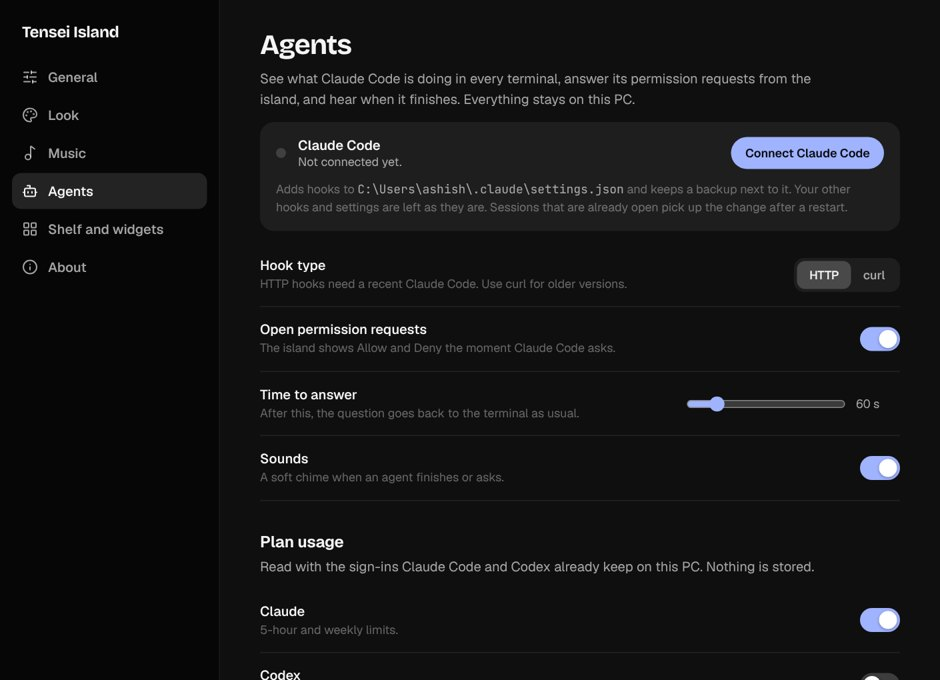
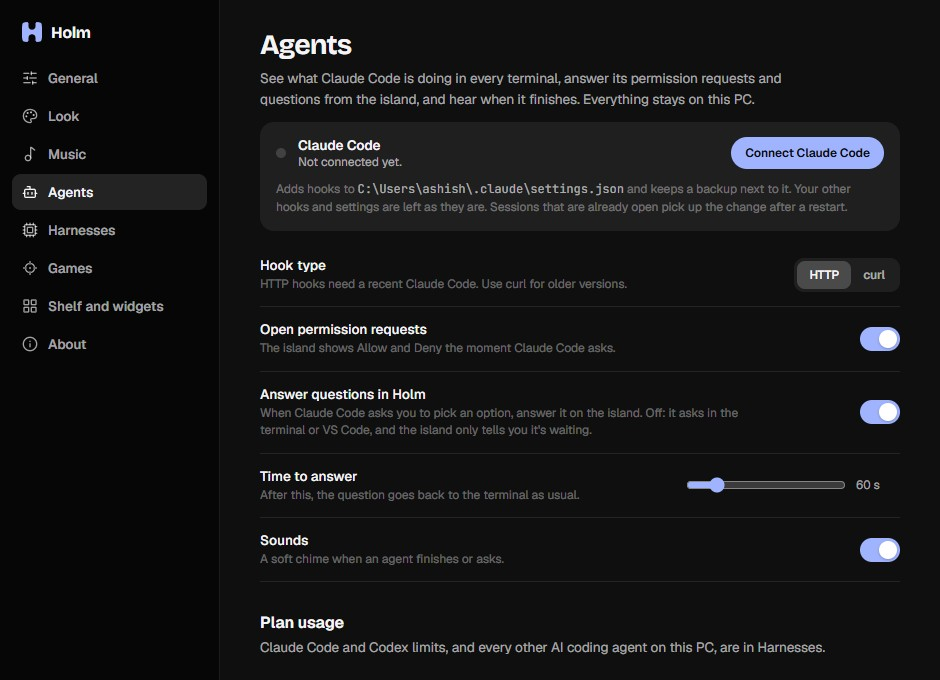
Question card: type your own answer, and a setting to answer in the terminal
Follow-up to #38.

- QuestionCard: a box under the options for an answer of your own. Enter or Send answers with
  it; on a multi-choice question it is added after the picks. Back brings it back. The island
  gives keyboard focus back once the question is answered.
- Settings > Agents > Answer questions in Holm (answerQuestions, on by default). Off, an
  AskUserQuestion permission request is answered empty at once, so Claude Code asks in its own
  prompt, and the island marks the session waiting with a "needs you" peek showing the question.
  Permission requests and plans are unchanged.
- agents.rs: leave_question_to_terminal and remind_question, with tests.
- Screenshots 23 to 25, settings-agents.jpg updated; README, CHANGELOG, ARCHITECTURE, STATUS.

diff --git a/src/lib/views/QuestionCard.svelte b/src/lib/views/QuestionCard.svelte
@@ -1,12 +1,14 @@
 <script lang="ts">
   // Claude Code asking a multiple-choice question (AskUserQuestion), answered from the island.
   // One question at a time; a single-choice pick moves on by itself, a multi-choice one waits
-  // for Next. "In terminal" hands it back to Claude Code's own prompt (where you can also type).
+  // for Next. An answer of your own can be typed below the options (on its own, or added to
+  // multi-choice picks). "In terminal" hands it back to Claude Code's own prompt.
   import { MessageCircleQuestionMark, Check } from '@lucide/svelte';
   import Ring from '../ui/Ring.svelte';
   import type { Approval } from '../types';
   import { agents } from '../stores/agents.svelte';
   import { clock } from '../stores/clock.svelte';
+  import { inTauri, focusWindow, send } from '../bridge';
 
   let { approval, more = 0, compact = false }: { approval: Approval; more?: number; compact?: boolean } = $props();
 
@@ -18,16 +20,30 @@
   let step = $state(0);
   let answers = $state<Record<string, string>>({});
   let picked = $state<string[]>([]);
+  /** An answer of the user's own for the question on screen. */
+  let typed = $state('');
 
   const count = $derived(approval.questions.length);
   const q = $derived(approval.questions[Math.min(step, count - 1)]);
   const last = $derived(step >= count - 1);
 
+  const own = $derived(typed.trim());
+  const ready = $derived(picked.length > 0 || own.length > 0);
+
+  /** Typing took keyboard focus from the app the user was in; give it back once answered. */
+  function releaseFocus() {
+    if (inTauri && document.hasFocus()) send('island_release_focus');
+  }
+
   function commit(labels: string[]) {
     const next = { ...answers, [q.question]: labels.join(', ') };
-    if (last) return agents.answer(approval.id, next);
+    if (last) {
+      releaseFocus();
+      return agents.answer(approval.id, next);
+    }
     answers = next;
     picked = [];
+    typed = '';
     step += 1;
   }
 
@@ -36,10 +52,23 @@
     picked = picked.includes(label) ? picked.filter((l) => l !== label) : [...picked, label];
   }
 
+  /** Next or Send: the picks, with the typed answer (if any) after them. */
+  function sendThis() {
+    if (ready) commit(own ? [...picked, own] : picked);
+  }
+
   function back() {
     step -= 1;
     const prev = approval.questions[step];
-    picked = prev.multiSelect ? (answers[prev.question]?.split(', ') ?? []) : [];
+    const parts = answers[prev.question]?.split(', ') ?? [];
+    const labels = prev.options.map((o) => o.label);
+    picked = prev.multiSelect ? parts.filter((p) => labels.includes(p)) : [];
+    typed = parts.filter((p) => !labels.includes(p)).join(', ');
+  }
+
+  function terminal() {
+    releaseFocus();
+    agents.answer(approval.id, null);
   }
 </script>
 
@@ -81,11 +110,24 @@
           </button>
         {/each}
       </div>
+      <input
+        class="own"
+        type="text"
+        bind:value={typed}
+        placeholder={q.multiSelect ? 'Add an answer of your own' : 'Or type your own answer'}
+        aria-label="Your own answer"
+        onfocus={() => void focusWindow()}
+        onclick={(e) => e.stopPropagation()}
+        onkeydown={(e) => {
+          e.stopPropagation();
+          if (e.key === 'Enter') sendThis();
+        }}
+      />
     </div>
   {/key}
 
   <div class="actions">
-    <button class="quiet" title="Answer in Claude Code instead, where you can also type your own" onclick={(e) => { e.stopPropagation(); agents.answer(approval.id, null); }}>
+    <button class="quiet" title="Answer in Claude Code's own prompt instead" onclick={(e) => { e.stopPropagation(); terminal(); }}>
       In terminal
     </button>
     {#if more > 0}<span class="more">{more} more waiting</span>{/if}
@@ -93,8 +135,8 @@
     {#if step > 0}
       <button class="ghost" onclick={(e) => { e.stopPropagation(); back(); }}>Back</button>
     {/if}
-    {#if q.multiSelect}
-      <button class="send" disabled={picked.length === 0} onclick={(e) => { e.stopPropagation(); commit(picked); }}>
+    {#if q.multiSelect || own}
+      <button class="send" disabled={!ready} onclick={(e) => { e.stopPropagation(); sendThis(); }}>
         {last ? 'Send' : 'Next'}
       </button>
     {/if}
@@ -252,6 +294,30 @@
     line-clamp: 2;
     -webkit-box-orient: vertical;
     overflow: hidden;
+  }
+  .own {
+    width: 100%;
+    height: 36px;
+    margin-top: 8px;
+    padding: 0 12px;
+    border: none;
+    outline: none;
+    border-radius: 12px;
+    background: var(--fill-1);
+    box-shadow: inset 0 0 0 1px var(--fill-2);
+    color: var(--ink);
+    font: inherit;
+    font-size: var(--t-sm);
+    transition: box-shadow 0.15s;
+  }
+  .compact .own {
+    background: var(--fill-2);
+  }
+  .own::placeholder {
+    color: var(--ink-3);
+  }
+  .own:focus {
+    box-shadow: inset 0 0 0 1.5px var(--accent);
   }
   .actions {
     display: flex;

diff --git a/src/lib/settings/AgentsSection.svelte b/src/lib/settings/AgentsSection.svelte
@@ -47,7 +47,7 @@
 <section>
   <h2 class="display">Agents</h2>
   <p class="lead">
-    See what Claude Code is doing in every terminal, answer its permission requests from the island, and hear when it finishes. Everything stays on this PC.
+    See what Claude Code is doing in every terminal, answer its permission requests and questions from the island, and hear when it finishes. Everything stays on this PC.
   </p>
 
   <div class="connect">
@@ -80,6 +80,9 @@
   </Field>
   <Field label="Open permission requests" hint="The island shows Allow and Deny the moment Claude Code asks.">
     <Toggle label="Open permission requests" checked={s.autoOpenApprovals} onchange={(v) => settings.set({ autoOpenApprovals: v })} />
+  </Field>
+  <Field label="Answer questions in Holm" hint="When Claude Code asks you to pick an option, answer it on the island. Off: it asks in the terminal or VS Code, and the island only tells you it's waiting.">
+    <Toggle label="Answer questions in Holm" checked={s.answerQuestions} onchange={(v) => settings.set({ answerQuestions: v })} />
   </Field>
   <Field label="Time to answer" hint="After this, the question goes back to the terminal as usual.">
     <input type="range" min="15" max="300" step="15" value={s.approvalTimeout} oninput={(e) => settings.set({ approvalTimeout: Number((e.target as HTMLInputElement).value) })} />

diff --git a/src/lib/stores/settings.svelte.ts b/src/lib/stores/settings.svelte.ts
@@ -72,6 +72,9 @@ export interface Settings {
   approvalTimeout: number;
   agentSounds: boolean;
   autoOpenApprovals: boolean;
+  /** Answer Claude Code's multiple-choice questions on the island. Off: they stay in Claude Code's
+   *  own prompt, and the island only says the session is waiting. */
+  answerQuestions: boolean;
   // Plan usage
   quotaClaude: boolean;
   quotaCodex: boolean;
@@ -141,6 +144,7 @@ export const DEFAULTS: Settings = {
   approvalTimeout: 60,
   agentSounds: true,
   autoOpenApprovals: true,
+  answerQuestions: true,
   quotaClaude: true,
   quotaCodex: true,
   quotaMinutes: 1,

diff --git a/src-tauri/src/agents.rs b/src-tauri/src/agents.rs
@@ -565,6 +565,11 @@ fn wait_for_decision(
     if tool == ASK && questions.is_empty() {
         return Decision::Terminal;
     }
+    let answer_here = app.state::<Config>().bool("answerQuestions", true);
+    if leave_question_to_terminal(&tool, answer_here) {
+        remind_question(app, agents, event, &questions[0].question);
+        return Decision::Terminal;
+    }
     let activity = describe(&tool, &input);
     let detail = match tool.as_str() {
         ASK => String::new(),
@@ -652,6 +657,32 @@ fn wait_for_decision(
 
 const ASK: &str = "AskUserQuestion";
 const PLAN: &str = "ExitPlanMode";
+
+/// With "Answer questions in Holm" off (`answerQuestions`), a question goes straight to Claude
+/// Code's own prompt; permission requests and plans are not affected.
+fn leave_question_to_terminal(tool: &str, answer_here: bool) -> bool {
+    tool == ASK && !answer_here
+}
+
+/// The question stays in the terminal or VS Code: the island only says the session is waiting
+/// for an answer, with a "needs you" peek showing the question. The next hook from the session
+/// (the answered tool, the next prompt) moves it on as usual.
+fn remind_question(app: &AppHandle, agents: &Agents, event: &Value, question: &str) {
+    let attention;
+    {
+        let mut sessions = agents.sessions.lock().expect("sessions");
+        let session = session_entry(&mut sessions, event);
+        session.status = "waiting";
+        push_log(session, "ask", format!("Asks: {}", truncate(question, 120)));
+        attention = json!({
+            "sessionId": session.id,
+            "project": session.project,
+            "message": truncate(question, 200),
+        });
+    }
+    let _ = app.emit("agents://state", agents.snapshot());
+    let _ = app.emit("agents://attention", attention);
+}
 
 /// The questions in an AskUserQuestion input; empty when they don't parse or have no options.
 fn questions_of(input: &Value) -> Vec<Question> {
@@ -1022,5 +1053,28 @@ mod tests {
         let event = json!({ "tool_name": "Bash", "tool_input": { "command": "ls" } });
         let d = decision(&reply(&event, Decision::Allow));
         assert_eq!(d, json!({ "behavior": "allow" }));
+    }
+    #[test]
+    fn questions_go_to_the_terminal_only_when_turned_off() {
+        assert!(leave_question_to_terminal(ASK, false));
+        assert!(!leave_question_to_terminal(ASK, true));
+        // Permission requests and plans still come to the island.
+        assert!(!leave_question_to_terminal("Bash", false));
+        assert!(!leave_question_to_terminal(PLAN, false));
+    }
+
+    #[test]
+    fn typed_answer_goes_back_like_a_label() {
+        let mut answers = serde_json::Map::new();
+        answers.insert(
+            "Which framework?".into(),
+            json!("Svelte, as the rest of the app"),
+        );
+        let d = decision(&reply(&ask_event(), Decision::Answer(answers)));
+        assert_eq!(d["behavior"], "allow");
+        assert_eq!(
+            d["updatedInput"]["answers"]["Which framework?"],
+            "Svelte, as the rest of the app"
+        );
     }
 }

diff --git a/STATUS.md b/STATUS.md
@@ -346,3 +346,17 @@ Legend: ✅ written and checked as far as possible here · 🧪 needs a first ru
   so Claude Code asks itself. New `agents_answer` command and `QuestionCard` (one question at a time, number
   marks, checkboxes and Send for multi-select, Back). Unit tests for the replies (run in CI; the GNU test
   binary doesn't start here). Browser scene `?approval=question`. Not yet tried against a live Claude Code.
+- 2026-11-17 (follow-up to #38): the question card takes an answer of your own (a box under the options;
+  Enter or Send; added after the picks for multi-select; Back restores it), and the island gives keyboard
+  focus back after answering. Setting `answerQuestions` (Settings → Agents, default on): off, an
+  AskUserQuestion permission request is answered empty at once (Claude Code's own prompt) and the island marks
+  the session waiting with a "needs you" peek showing the question (`leave_question_to_terminal`,
+  `remind_question`); permission requests and plans are unchanged.
+  Checked in `npx tauri dev` (Windows 11): svelte-check 0/0, clippy clean, the agents tests (the five from
+  #38 and two new) pass; 15 live checks posting Claude Code's PermissionRequest payloads to the hook server
+  and driving the island over WebView2's debugging port: a typed answer alone (Enter), Next/Send appearing
+  once something is typed, Back bringing a typed answer back, picks plus a typed answer ("Points, Form, Rank
+  change since last week"), option picks and In terminal unchanged, setting off → empty reply in ~20 ms with
+  the "needs you" peek and the session waiting, and a Bash permission request still showing Allow and Deny
+  with the setting off. Screenshots 23 to 25 and an updated settings-agents.jpg.
+

diff --git a/docs/ARCHITECTURE.md b/docs/ARCHITECTURE.md
@@ -44,7 +44,7 @@ Pear Desktop and LRCLIB / Open-Meteo are reached from the frontend with fetch/We
 
 ## Island states
 
-`compact` (resting) → `peek` (a few seconds of news) → `approval` (stays until answered; a multiple-choice question from Claude shows its options instead of Allow and Deny) → `drop` (dragging files)
+`compact` (resting) → `peek` (a few seconds of news) → `approval` (stays until answered; a multiple-choice question from Claude shows its options, and a box for an answer of your own, instead of Allow and Deny; with `answerQuestions` off it is left to Claude Code's prompt and the island only peeks "needs you") → `drop` (dragging files)
 → `expanded` (pages). The shape morphs with a spring written as CSS `linear()` easing; content cross-fades.
 A second live activity sits in a round bubble next to the island, like iOS.
 

diff --git a/CHANGELOG.md b/CHANGELOG.md
@@ -6,6 +6,15 @@ versions follow [Semantic Versioning](https://semver.org). Downloads are on the
 
 ## [Unreleased]
 
+### Added
+
+- **Type your own answer to Claude's questions.** The question card has a box under the options: type an
+  answer and press Enter or Send, or add it to the picks of a question that allows several answers. No need
+  to switch to the terminal when none of the options fit.
+- **Answer questions in Holm** (Settings → Agents, on by default). Turn it off to keep answering Claude Code's
+  questions in the terminal or VS Code: the island then only tells you that Claude is waiting for an answer,
+  with the question, and permission requests and plans still come to the island.
+
 ### Fixed
 
 - **Claude's questions are answered in the island.** When Claude Code asks a multiple-choice question

diff --git a/README.md b/README.md
@@ -65,7 +65,8 @@ Using Pear Desktop? Connect it and you also get likes, dislikes and exact progre
 
 Connect Claude Code once, and every session shows up live: what it's reading, editing or running, and for how
 long. When it asks for permission, the island opens with **Allow** and **Deny** so you can answer without
-hunting for the right terminal. When it finishes, you hear a soft chime and see a one-line summary. Your 5-hour
+hunting for the right terminal, and when it asks you a question, you pick an option or type your own answer
+right there. When it finishes, you hear a soft chime and see a one-line summary. Your 5-hour
 and weekly limits sit in a small ring.
 
 Holm also spots the other AI coding tools on your PC (Codex, OpenCode, Gemini CLI, Copilot CLI, Cline, Cursor
